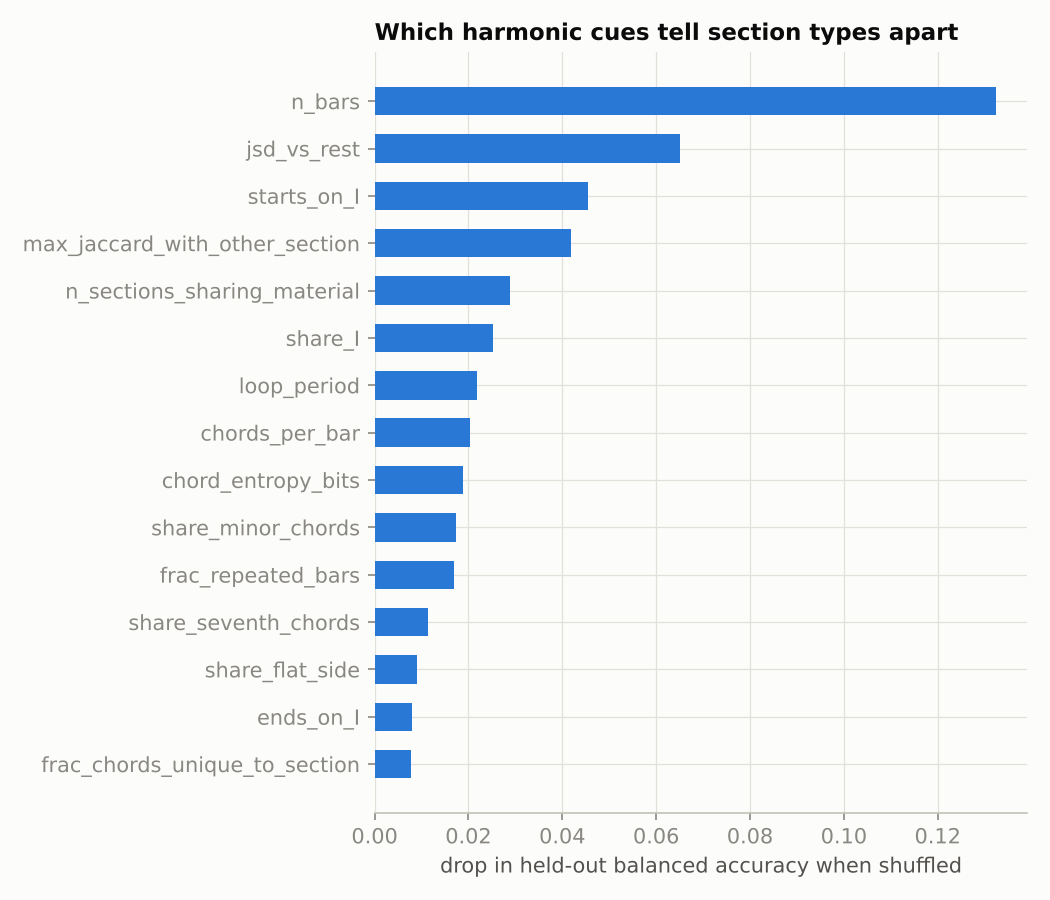
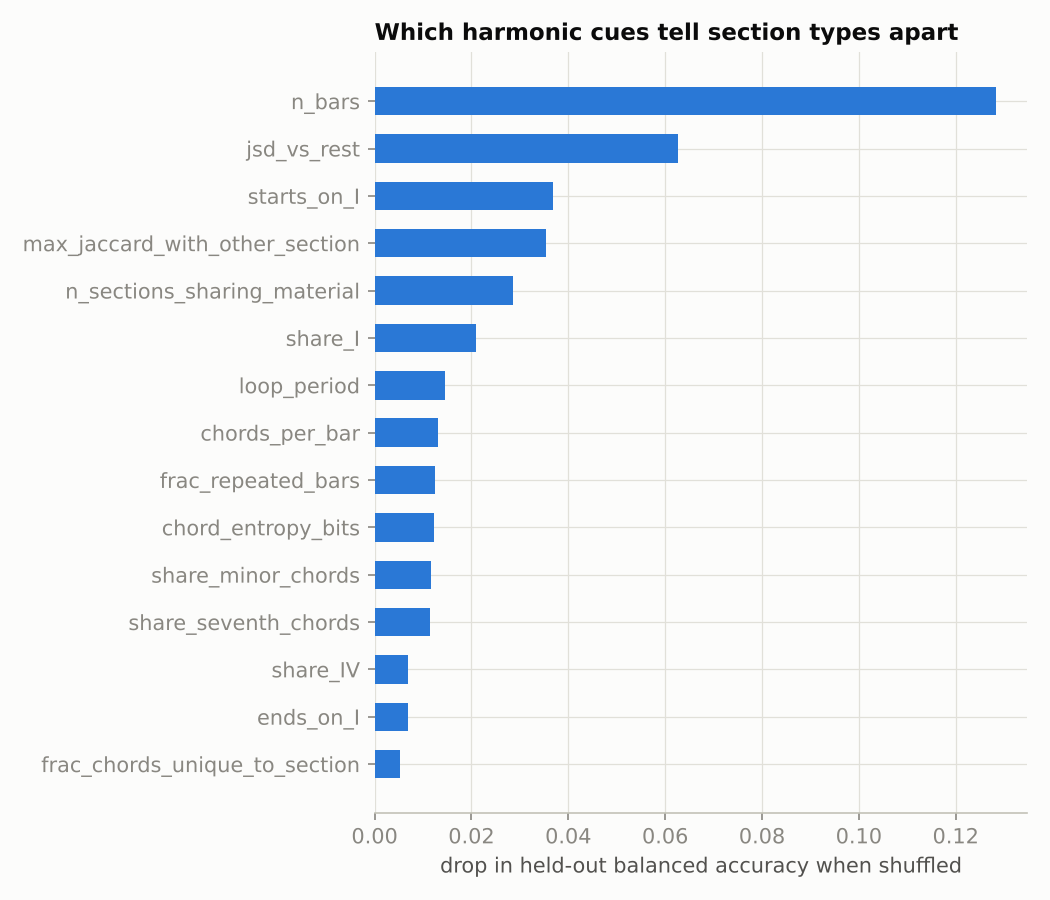
Section-function results on Billboard and README write-up
Beginnings and ends sit on the tonic (intro/outro: I in >50% of bars,
outro ends on I 60% of the time and on V 13%); prechoruses and bridges
start off the tonic and end on V nearly half the time; bridges introduce
chords heard nowhere else. Harmony alone reaches 0.58 balanced accuracy
on six section types, position alone 0.61, both 0.74; bridge vs chorus
0.91 from harmony alone.

Claude-Session: https://claude.ai/code/session_01UetmnxjQyiGmesLUp49djU

diff --git a/README.md b/README.md
@@ -182,6 +182,97 @@ genre lifts above are real but small per-song effects; the 2015 project's
 section classifier was living on Billboard's rhythmic bargrams, not on which
 chords were used.
 
+## What makes a beginning sound like a beginning?
+
+The topic model asks *which harmonic dialect* a passage speaks. A different
+question is *where in the song it belongs*: what, in the harmony alone, makes
+an intro sound like an intro, a bridge like a bridge, an outro like an end?
+`scripts/run_sections.py` computes label-free harmonic features for every
+labelled section — size, harmonic rhythm, tonic emphasis, how it starts and
+ends, repetition, novelty against the rest of the song, how much of its
+material recurs elsewhere, key change — and keeps *position in the song* as a
+separate feature set, so the classifier comparison says what harmony adds
+beyond "it's the seventh section". (An earlier version compared each section
+to the song's labelled choruses; that leaks the label and was removed. Every
+"recurrence" feature now asks only how much of a section's material returns
+*anywhere* else in the song.)
+
+### Billboard: 6,958 labelled sections, 889 songs
+
+**Beginnings and ends sit on the tonic; the middles that lead somewhere avoid
+it.** Mean of each cue by section type (full table with CIs in
+[`results/sections/descriptives.md`](results/sections/descriptives.md)):
+
+| cue | intro | verse | prechorus | chorus | bridge | outro |
+|---|---|---|---|---|---|---|
+| starts on I | 0.74 | 0.81 | **0.27** | 0.61 | **0.18** | 0.73 |
+| ends on I | 0.45 | 0.41 | 0.16 | 0.36 | 0.19 | **0.60** |
+| ends on V | 0.29 | 0.31 | **0.45** | 0.30 | **0.48** | **0.13** |
+| share of I | 0.53 | 0.45 | 0.20 | 0.36 | 0.20 | 0.53 |
+| distinct chords | 2.8 | 4.2 | 4.2 | 4.2 | 4.6 | 3.0 |
+| length in bars | 7.1 | 12.9 | 6.9 | 10.5 | 10.2 | 14.9 |
+| is a loop | 0.62 | 0.55 | 0.34 | 0.53 | 0.33 | **0.77** |
+| novelty vs rest of song (JSD, bits) | 0.33 | 0.16 | 0.36 | 0.20 | **0.42** | 0.28 |
+| chords unique to this section | 0.07 | 0.01 | 0.01 | 0.01 | **0.16** | 0.05 |
+| max overlap with another section (Jaccard) | 0.66 | 0.94 | 0.96 | 0.94 | 0.63 | 0.70 |
+
+Intros and outros are short-vocabulary tonic loops (2.8–3.0 distinct chords,
+I more than half the time); the outro is the longest section type, loops
+most often (77%), and is the only one that ends on I more often than not (60%)
+and almost never on V (13%). Prechoruses and bridges are the mirror image:
+they start off the tonic (73% and 82% of the time), end on V nearly half the
+time, and are the most novel sections; bridges alone introduce chords heard
+nowhere else in the song (16% of their harmony). Verses and choruses are the
+song's shared material — 94% maximal overlap with another section — and
+differ mainly in that choruses start on I less often (61% vs 81%) and move
+faster (1.35 vs 1.28 chords per bar).
+
+**How sections begin and end, bar by bar.** Share of the main relative chords
+in the first bar, the interior and the last bar of each section type:
+
+![boundary profiles](results/sections/boundary_profiles.png)
+
+Every section type except prechorus and bridge opens with a tonic spike (I in
+53–55% of first bars for intros and verses) that decays into the interior. The
+last bar is where function shows: verses, prechoruses and bridges end on V
+(V plus V7 in 27%, 37% and 42% of last bars) — a half cadence that hands off
+to the next section — while the outro's last bar climbs back to the tonic
+(43%, from 29% in its interior). An end sounds like an end because the
+harmony returns home; a middle sounds like a middle because it leaves the door
+open.
+
+**Can harmony alone tell?** GroupKFold by song, gradient boosting with
+balanced class weights, against position-only and majority baselines
+([`results/sections/classification.txt`](results/sections/classification.txt)):
+
+| task | harmony only | position only | both | majority |
+|---|---|---|---|---|
+| 6 section types (balanced acc.) | 0.58 | 0.61 | **0.74** | 0.17 chance |
+| beginning / middle / end (balanced) | 0.69 | 0.94 | 0.92 | 0.33 chance |
+| intro vs outro | 0.80 | 1.00 (trivial) | 1.00 | 0.66 |
+| verse vs chorus | 0.70 | 0.63 | 0.76 | 0.49 |
+| bridge vs chorus | 0.91 | 0.62 | 0.92 | 0.85 |
+
+Harmony and position are complementary: each alone gets ~0.6 balanced
+accuracy on the six-way task and together they reach 0.74. Harmony beats
+position where position is uninformative (verse vs chorus, bridge vs chorus)
+and position wins where it is definitional (an intro is the first section).
+Intro vs outro — two tonic loops — is 80% separable from harmony alone,
+mostly by length, looping and whether the last bar lands on I.
+
+![importance](results/sections/importance.png)
+
+Permutation importance on held-out folds names the cues: section length
+first, then novelty against the rest of the song, starting on I, overlap with
+other sections, tonic share, loop period and harmonic rhythm. Whether the
+section *changes key* barely matters (3% of sections do), and neither does
+the sharp-side/flat-side vocabulary that defines the topics above — style and
+function are carried by different properties of the same chords.
+
+### Chordonomicon replication
+
+<!-- SECTIONS_CHORDONOMICON -->
+
 ### Key estimation, validated on Billboard
 
 Chordonomicon gives chord symbols but no key, so "relative root" needs a key
@@ -249,10 +340,11 @@ chordtopics/
   chordonomicon.py  CSV loader, chord-symbol parser, per-section key estimation
   keyfinding.py     Krumhansl/Temperley profiles and the learned chord-root key finder
   data/             key profiles learned from Billboard
+  sections.py       label-free harmonic features of song sections, position baseline
   tokenize.py       bargram tokens, repeat collapsing, collocations, thresholds
   model.py          LDA, held-out NPMI, Hungarian topic matching, seed stability
   evaluate.py       GroupKFold section classifier, year regression, baselines, bootstrap CIs
-scripts/            run_billboard.py, run_chordonomicon.py, experiment_tokenization.py,
+scripts/            run_billboard.py, run_chordonomicon.py, run_sections.py, experiment_tokenization.py,
                     validate_keyfinding.py, validate_learned_keyfinding.py
 tests/              parser and tokenizer tests
 results/            outputs of the runs above (models are not committed)
